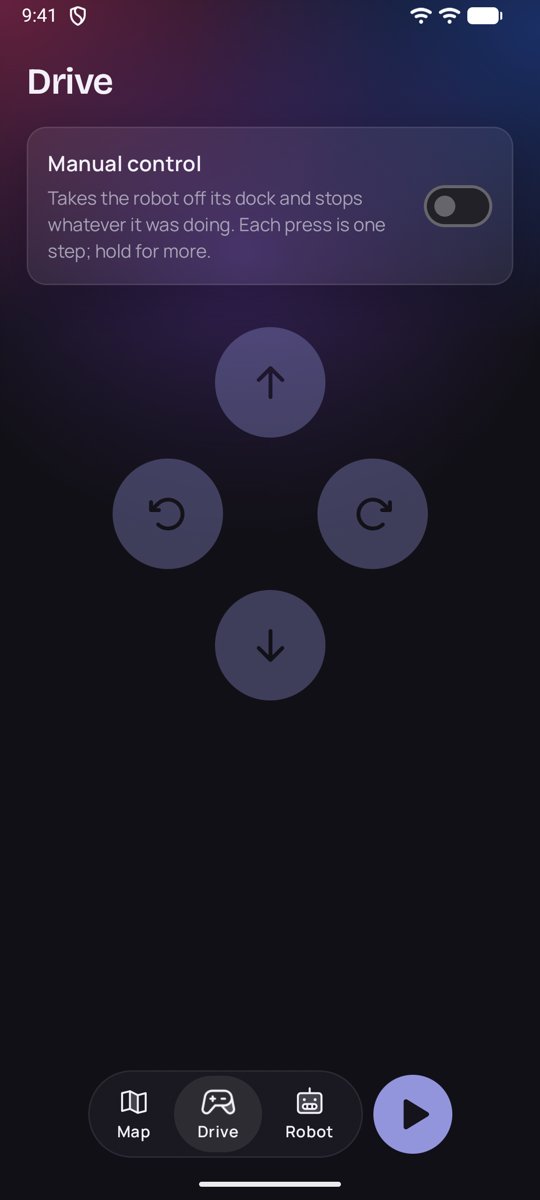
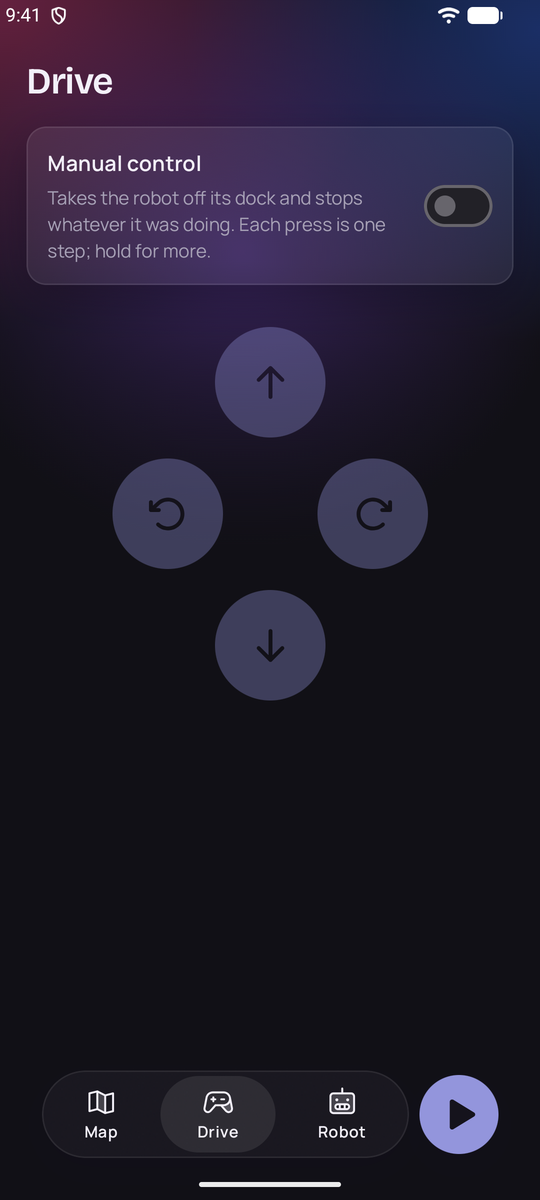
Wider tabs, shrunk to fit on narrow screens, and no animation in the tab bar
The tabs get more room on either side and a little space between them, and on a screen too narrow
for the bar the whole of it is scaled down rather than cut off, as in Tally. The current tab's mark
no longer slides over to it and its icon no longer swells: the mark sits behind the current tab, and
the screens' crossfade is the only movement left. The screenshots are retaken with the new bar.

diff --git a/shared/src/commonMain/kotlin/xyz/felixb/congatrol/components/FloatingTabBar.kt b/shared/src/commonMain/kotlin/xyz/felixb/congatrol/components/FloatingTabBar.kt
@@ -1,8 +1,6 @@
 package xyz.felixb.congatrol.components
 
 import androidx.compose.animation.AnimatedContent
-import androidx.compose.animation.core.Animatable
-import androidx.compose.animation.core.animateFloatAsState
 import androidx.compose.animation.fadeIn
 import androidx.compose.animation.fadeOut
 import androidx.compose.animation.scaleIn
@@ -27,30 +25,21 @@ import androidx.compose.material3.ripple
 import androidx.compose.runtime.Composable
 import androidx.compose.runtime.CompositionLocalProvider
 import androidx.compose.runtime.Immutable
-import androidx.compose.runtime.LaunchedEffect
-import androidx.compose.runtime.getValue
-import androidx.compose.runtime.mutableStateMapOf
-import androidx.compose.runtime.mutableStateOf
 import androidx.compose.runtime.remember
-import androidx.compose.runtime.setValue
 import androidx.compose.ui.Alignment
 import androidx.compose.ui.Modifier
 import androidx.compose.ui.draw.clip
-import androidx.compose.ui.draw.drawBehind
 import androidx.compose.ui.draw.dropShadow
-import androidx.compose.ui.geometry.CornerRadius
-import androidx.compose.ui.geometry.Offset
-import androidx.compose.ui.geometry.Size
 import androidx.compose.ui.graphics.Color
-import androidx.compose.ui.graphics.graphicsLayer
+import androidx.compose.ui.graphics.TransformOrigin
 import androidx.compose.ui.graphics.shadow.Shadow
-import androidx.compose.ui.layout.onGloballyPositioned
-import androidx.compose.ui.layout.positionInParent
+import androidx.compose.ui.layout.Layout
 import androidx.compose.ui.platform.LocalDensity
 import androidx.compose.ui.platform.testTag
 import androidx.compose.ui.semantics.Role
 import androidx.compose.ui.text.font.FontWeight
 import androidx.compose.ui.tooling.preview.Preview
+import androidx.compose.ui.unit.Constraints
 import androidx.compose.ui.unit.Density
 import androidx.compose.ui.unit.DpOffset
 import androidx.compose.ui.unit.dp
@@ -64,13 +53,13 @@ import dev.chrisbanes.haze.HazeState
 import dev.chrisbanes.haze.rememberHazeState
 import kotlinx.collections.immutable.ImmutableList
 import kotlinx.collections.immutable.persistentListOf
-import kotlinx.coroutines.launch
 import org.jetbrains.compose.resources.DrawableResource
 import org.jetbrains.compose.resources.painterResource
 import xyz.felixb.congatrol.theme.CongatrolTheme
 import xyz.felixb.congatrol.theme.LocalCongatrolLook
 import xyz.felixb.congatrol.theme.PreviewCongatrol
 import xyz.felixb.congatrol.theme.congatrolBackground
+import kotlin.math.roundToInt
 
 /**
  * How much room a screen keeps free below its content so the last element can be scrolled clear of
@@ -103,59 +92,49 @@ fun FloatingTabBar(
     // their size no longer fit next to each other.
     val density = LocalDensity.current
     CompositionLocalProvider(LocalDensity provides Density(density.density, fontScale = 1f)) {
-        Row(
-            modifier = modifier,
-            verticalAlignment = Alignment.CenterVertically,
-            horizontalArrangement = Arrangement.spacedBy(8.dp),
-        ) {
-            // Where each tab lies in the pill, so that the mark of the current one can travel between them.
-            val spans = remember { mutableStateMapOf<String, ClosedFloatingPointRange<Float>>() }
-            val markLeft = remember { Animatable(0f) }
-            val markRight = remember { Animatable(0f) }
-            var marked by remember { mutableStateOf(false) }
-            val span = spans[selectedKey]
-            LaunchedEffect(span) {
-                if (span == null) return@LaunchedEffect
-                if (marked) {
-                    // The edge in front leads and the one behind follows: the mark stretches on its way.
-                    launch { markLeft.animateTo(span.start, Motion.bouncy()) }
-                    launch { markRight.animateTo(span.endInclusive, Motion.bouncy()) }
-                } else {
-                    markLeft.snapTo(span.start)
-                    markRight.snapTo(span.endInclusive)
-                    marked = true
-                }
-            }
-            // The current tab is pressed into the bar, not coloured in.
-            val mark = MaterialTheme.colorScheme.onSurface.copy(alpha = MARK_ALPHA)
+        ScaleToFit(modifier = modifier) {
             Row(
-                modifier =
-                    Modifier.barMaterial(hazeState).padding(4.dp).drawBehind {
-                        if (marked) {
-                            drawRoundRect(
-                                color = mark,
-                                topLeft = Offset(markLeft.value, 0f),
-                                size = Size((markRight.value - markLeft.value).coerceAtLeast(0f), size.height),
-                                cornerRadius = CornerRadius(size.height / 2f),
-                            )
-                        }
-                    },
                 verticalAlignment = Alignment.CenterVertically,
+                horizontalArrangement = Arrangement.spacedBy(8.dp),
             ) {
-                items.forEach { item ->
-                    Tab(
-                        item = item,
-                        selected = item.key == selectedKey,
-                        onClick = { onSelect(item.key) },
-                        modifier =
-                            Modifier.onGloballyPositioned {
-                                val left = it.positionInParent().x
-                                spans[item.key] = left..left + it.size.width
-                            },
-                    )
+                Row(
+                    modifier = Modifier.barMaterial(hazeState).padding(4.dp),
+                    verticalAlignment = Alignment.CenterVertically,
+                    horizontalArrangement = Arrangement.spacedBy(4.dp),
+                ) {
+                    items.forEach { item ->
+                        Tab(item = item, selected = item.key == selectedKey, onClick = { onSelect(item.key) })
+                    }
                 }
+                ActionButton(action = action)
             }
-            ActionButton(action = action)
+        }
+    }
+}
+
+/**
+ * Lays [content] out at its own width and, only where that is wider than there is room for,
+ * shrinks all of it alike to fit: on a narrow screen the bar gets smaller rather than cut off.
+ */
+@Composable
+private fun ScaleToFit(
+    modifier: Modifier = Modifier,
+    content: @Composable () -> Unit,
+) {
+    Layout(content = content, modifier = modifier) { measurables, constraints ->
+        val placeable = measurables.first().measure(Constraints())
+        val scale =
+            if (constraints.hasBoundedWidth && placeable.width > constraints.maxWidth) {
+                constraints.maxWidth.toFloat() / placeable.width
+            } else {
+                1f
+            }
+        layout((placeable.width * scale).roundToInt(), (placeable.height * scale).roundToInt()) {
+            placeable.placeRelativeWithLayer(0, 0) {
+                scaleX = scale
+                scaleY = scale
+                transformOrigin = TransformOrigin(0f, 0f)
+            }
         }
     }
 }
@@ -240,7 +219,6 @@ private fun ActionButton(
 private val ActionButtonSize = 60.dp
 private const val DISABLED_ALPHA = 0.45f
 private const val MARK_ALPHA = 0.09f
-private const val SELECTED_ICON_SCALE = 1.14f
 
 @Composable
 private fun Tab(
@@ -250,15 +228,16 @@ private fun Tab(
     modifier: Modifier = Modifier,
 ) {
     val content = MaterialTheme.colorScheme.onSurface
-    // The tab gone to perks up for a moment; the mark behind it is the bar's to draw.
-    val lift by animateFloatAsState(if (selected) SELECTED_ICON_SCALE else 1f, Motion.bouncy())
+    // The current tab is pressed into the bar, not coloured in.
+    val mark = if (selected) content.copy(alpha = MARK_ALPHA) else Color.Transparent
     Column(
         modifier =
             modifier
                 .testTag("tab_${item.key}")
                 .clip(CircleShape)
+                .background(mark)
                 .selectable(selected = selected, role = Role.Tab, onClick = onClick)
-                .padding(horizontal = 18.dp, vertical = 8.dp),
+                .padding(horizontal = 28.dp, vertical = 8.dp),
         verticalArrangement = Arrangement.spacedBy(2.dp),
         horizontalAlignment = Alignment.CenterHorizontally,
     ) {
@@ -266,11 +245,7 @@ private fun Tab(
             painter = painterResource(item.icon),
             contentDescription = null,
             tint = content,
-            modifier =
-                Modifier.size(24.dp).graphicsLayer {
-                    scaleX = lift
-                    scaleY = lift
-                },
+            modifier = Modifier.size(24.dp),
         )
         Text(
             text = item.label,
